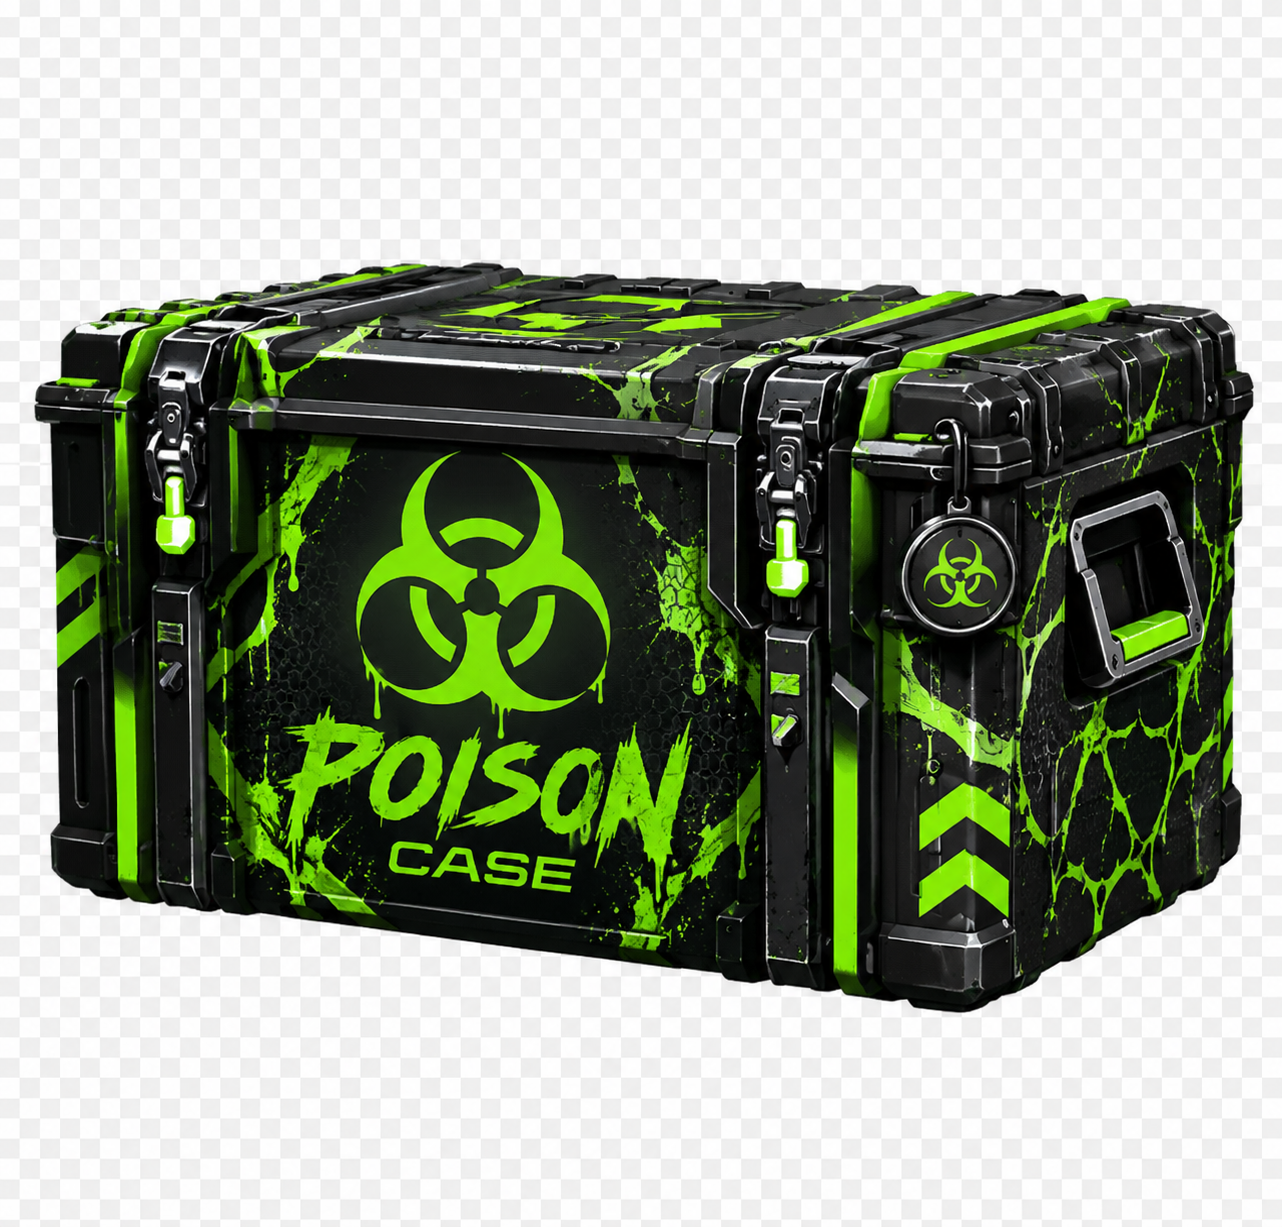
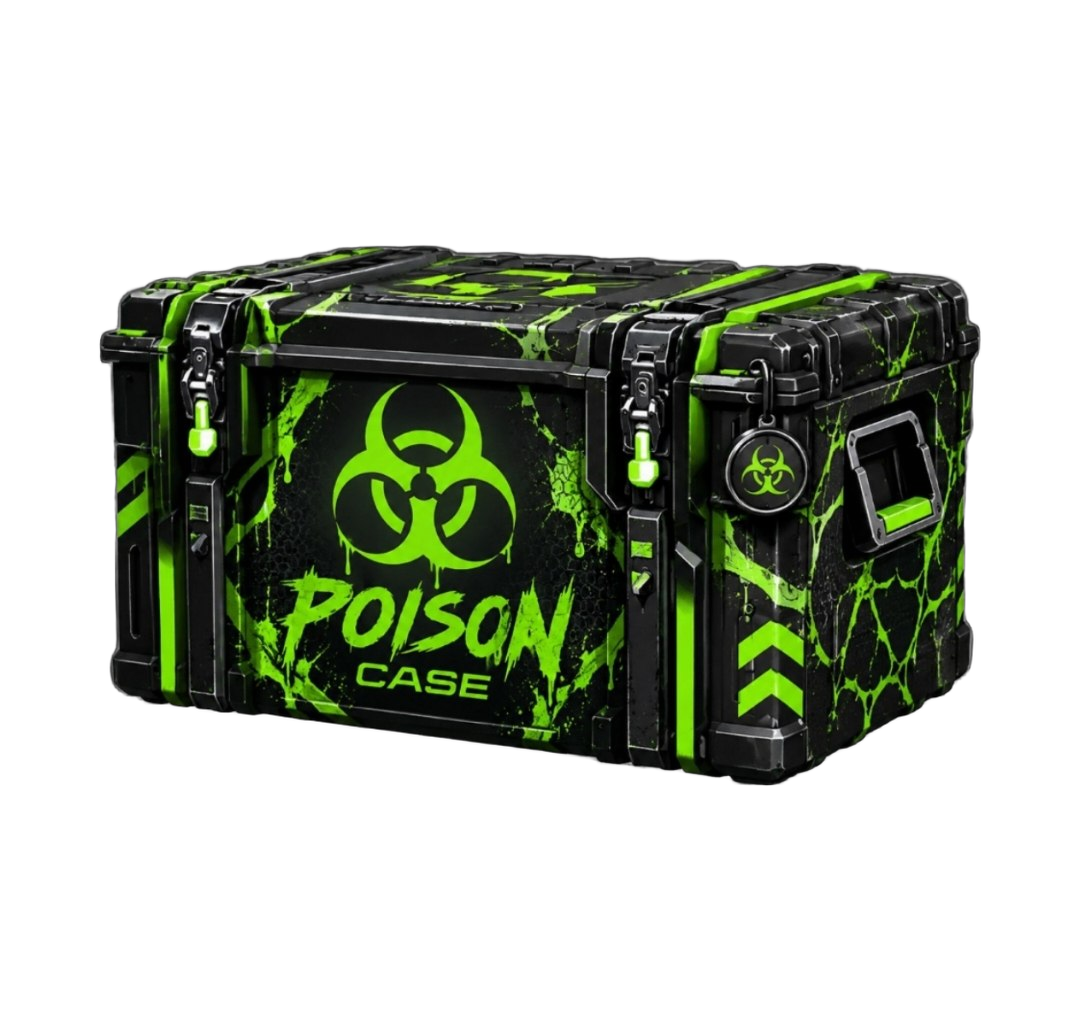
Add files via upload

diff --git a/webapp/app.js b/webapp/app.js
@@ -870,18 +870,15 @@ function calcUpgradeTarget() {
   if (!fromNft) return { targetId: null, targetNft: null, chance: 0 };
   const bet = state.upgradeBet || 0;
 
-  // Определяем множитель и базовый шанс по ставке
-  // Без: +15% цена, 75% | X2: x2, 50% | X3: x3, 35% | X4: x4, 20% | X5: x5, 10%
-  let mult, baseChance;
-  if      (bet >= fromNft.price * 4) { mult = 5;    baseChance = 10; }
-  else if (bet >= fromNft.price * 3) { mult = 4;    baseChance = 20; }
-  else if (bet >= fromNft.price * 2) { mult = 3;    baseChance = 35; }
-  else if (bet >= fromNft.price)     { mult = 2;    baseChance = 50; }
-  else                               { mult = 1.15; baseChance = 75; }
+  // Строго фиксированные шансы по ставке
+  let mult, chance;
+  if      (bet >= fromNft.price * 4) { mult = 5; chance = 10; }
+  else if (bet >= fromNft.price * 3) { mult = 4; chance = 20; }
+  else if (bet >= fromNft.price * 2) { mult = 3; chance = 35; }
+  else if (bet >= fromNft.price)     { mult = 2; chance = 50; }
+  else                               { mult = 1.15; chance = 75; }
 
   const targetPrice = fromNft.price * mult;
-
-  // Ищем ближайший NFT к целевой цене (дороже исходного)
   let bestId = null, bestNft = null, bestDiff = Infinity;
   Object.entries(NFTS).forEach(([id, n]) => {
     if (parseInt(id) === state.upgradeFromId) return;
@@ -889,15 +886,6 @@ function calcUpgradeTarget() {
     const diff = Math.abs(n.price - targetPrice);
     if (diff < bestDiff) { bestDiff = diff; bestId = parseInt(id); bestNft = n; }
   });
-
-  // Шанс падает пропорционально отклонению найденного NFT от целевой цены
-  let chance = baseChance;
-  if (bestNft && targetPrice > 0) {
-    const deviation = Math.abs(bestNft.price - targetPrice) / targetPrice;
-    // Каждые 10% отклонения снижают шанс на 5 пп, максимум -30 пп
-    const penalty = Math.min(Math.round(deviation * 50), 30);
-    chance = Math.max(chance - penalty, 3);
-  }
   return { targetId: bestId, targetNft: bestNft, chance };
 }
 
@@ -1515,7 +1503,7 @@ const CASES = {
     name: 'Poison Case',
     price: 500,
     color: '#22c55e',
-    img: 'poison_case.jpg',           // кладёшь файл в webapp/poison_case.jpg
+    img: 'poison_case.png',
     imgFallback: (function() {
       var s = '<svg xmlns="http://www.w3.org/2000/svg" width="200" height="200">'
         + '<defs>'
@@ -1552,7 +1540,7 @@ const CASES = {
     name: 'Hellfire Case',
     price: 1200,
     color: '#ef4444',
-    img: 'hellfire_case.jpg',         // кладёшь файл в webapp/hellfire_case.jpg
+    img: 'hellfire_case.png',
     imgFallback: (function() {
       var s = '<svg xmlns="http://www.w3.org/2000/svg" width="200" height="200">'
         + '<defs>'
@@ -1598,7 +1586,7 @@ const CASES = {
     name: 'Dota 2 Case',
     price: 2500,
     color: '#c084fc',
-    img: 'dota2_case.jpg',
+    img: 'dota2_case.png',
     imgFallback: (function() {
       var s = '<svg xmlns="http://www.w3.org/2000/svg" width="200" height="200">'
         + '<defs>'
@@ -1788,7 +1776,7 @@ async function startCaseOpen(caseId) {
   try {
     const res = await apiPost('/open_case', { case_id: caseId });
     if (res.ok) {
-      wonItem = c.items.find(i => i.nft_id === res.nft_id);
+      wonItem = c.items.find(i => i.nft_id === res.nft_id) || (NFTS[res.nft_id] ? { nft_id: res.nft_id, label: NFTS[res.nft_id].name, rarity: NFTS[res.nft_id].rarity, price: NFTS[res.nft_id].price } : null);
       state.balance   = res.balance;
       state.inventory = res.inventory;
       saveState();

diff --git a/webapp/style.css b/webapp/style.css
@@ -1760,30 +1760,31 @@ html, body {
   position: relative;
   isolation: isolate;
 }
-/* свечение внутри картинки снизу */
-.case-grid-img-wrap::after {
+/* свечение С кейса — z-index:-1 гарантирует что за картинкой */
+.case-grid-img-wrap::before {
   content: "";
   position: absolute;
-  bottom: 0; left: 10%; right: 10%;
-  height: 40%;
-  background: radial-gradient(ellipse at 50% 100%,
-    color-mix(in srgb, var(--cc, var(--gold)) 35%, transparent) 0%,
+  inset: 15%;
+  border-radius: 50%;
+  background: radial-gradient(ellipse at 50% 50%,
+    color-mix(in srgb, var(--cc, var(--gold)) 60%, transparent) 0%,
     transparent 70%);
   pointer-events: none;
   z-index: 0;
+  filter: blur(16px);
   animation: case-glow-pulse 2.5s ease-in-out infinite;
 }
 @keyframes case-glow-pulse {
-  0%, 100% { opacity: 0.7; }
-  50%       { opacity: 1.0; }
+  0%, 100% { opacity: 0.5; transform: scale(1); }
+  50%       { opacity: 0.9; transform: scale(1.1); }
 }
 .case-grid-img {
   width: 88%;
   height: 88%;
   object-fit: contain;
   position: relative;
-  z-index: 2;
-  mix-blend-mode: lighten;
+  z-index: 1;
+}
 }
 .case-grid-name  { font-size: 12px; font-weight: 800; color: var(--text); padding: 8px 10px 2px; }
 .case-grid-price { font-size: 13px; font-weight: 900; padding: 0 10px 10px; }
